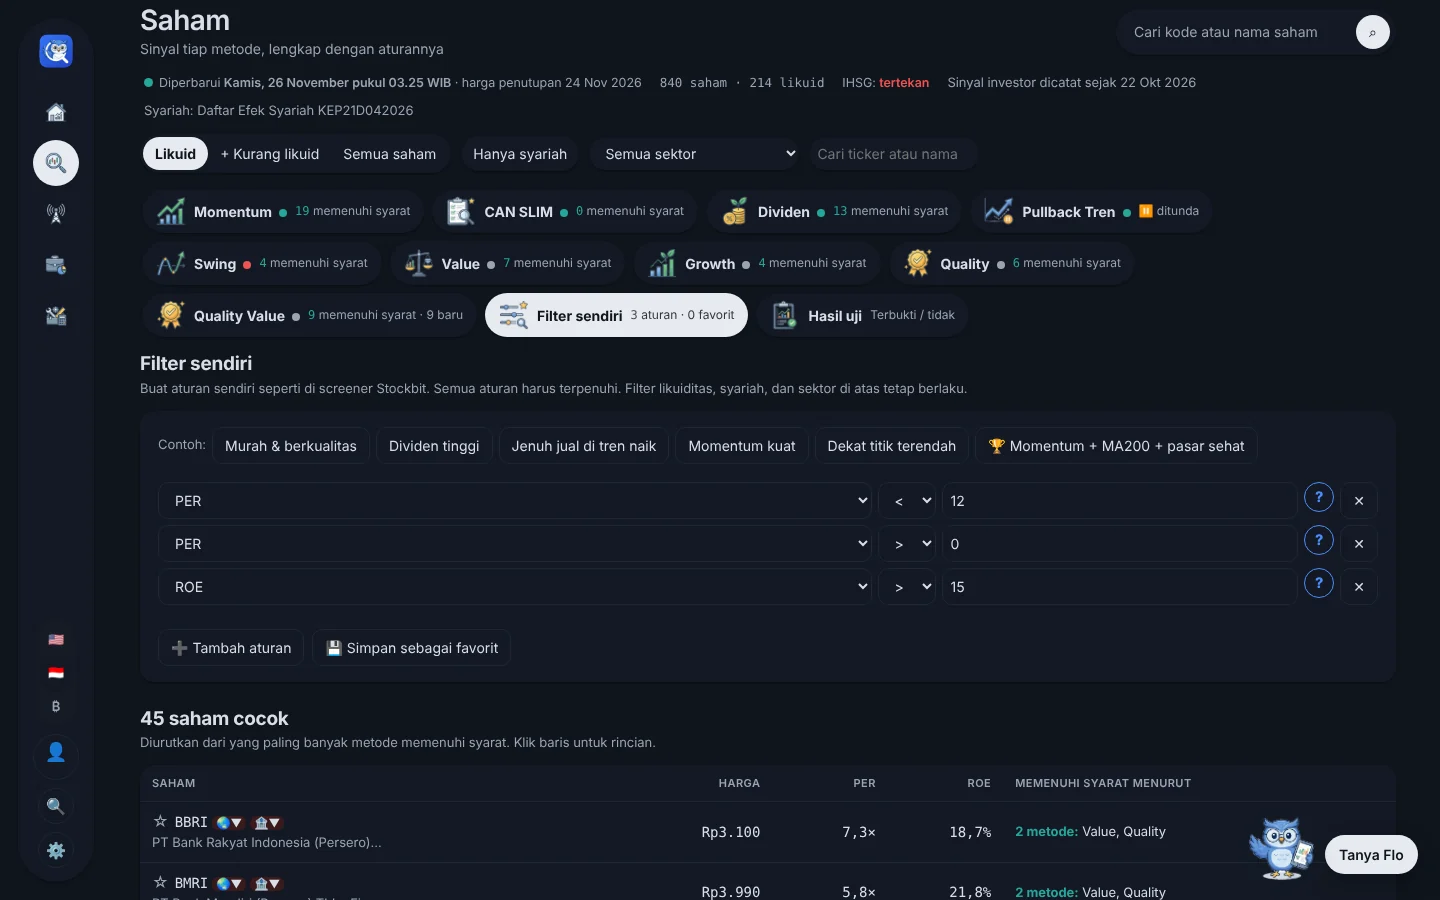
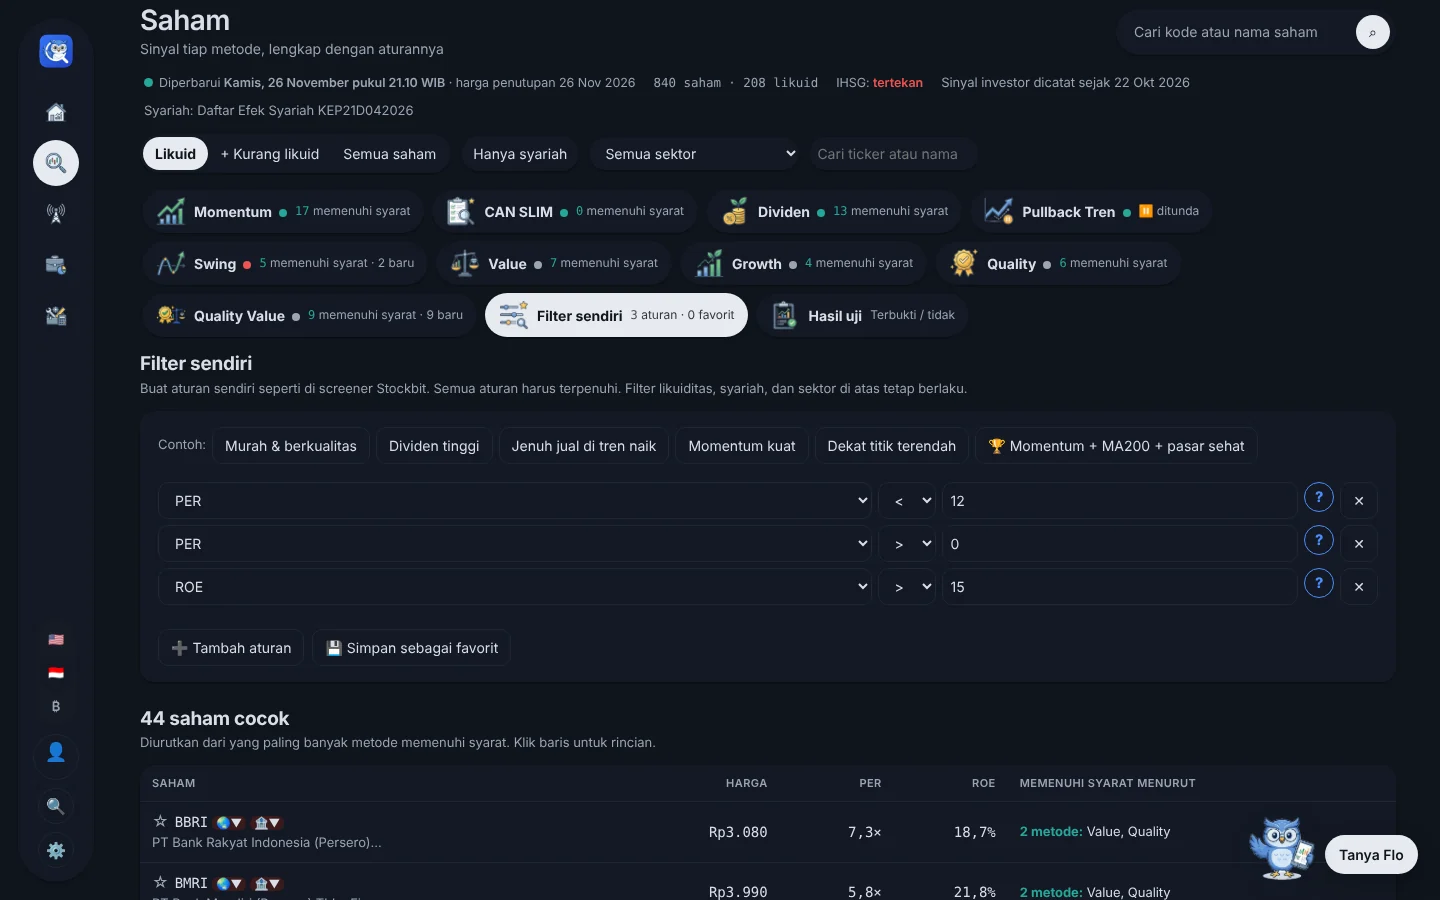
Web 8 metode dan ikon baru Quality Value
Claude-Session: https://claude.ai/code/session_0176tunthEyeYhj4CGmibasP

diff --git a/chartflow/public/index.html b/chartflow/public/index.html
@@ -4,13 +4,13 @@
 <meta charset="utf-8">
 <meta name="viewport" content="width=device-width,initial-scale=1,viewport-fit=cover">
 <title>ChartFlow · Screener Saham Metode Para Ahli</title>
-<meta name="description" content="Screener saham BEI dan Wall Street dengan 7 metode investor dan trader ternama: area beli dan jual menurut aturan tiap metode, beserta alasannya. Diperbarui otomatis setiap hari.">
+<meta name="description" content="Screener saham BEI dan Wall Street dengan 8 metode investor dan trader (termasuk Quality Value, uji coba): area beli dan jual menurut aturan tiap metode, beserta alasannya. Diperbarui otomatis setiap hari.">
 <meta name="theme-color" content="#1d4ed8">
 <meta property="og:type" content="website">
 <meta property="og:site_name" content="ChartFlow">
 <meta property="og:url" content="https://chartflow.my.id/">
 <meta property="og:title" content="ChartFlow · Screener Saham Metode Para Ahli">
-<meta property="og:description" content="Saring saham BEI dan Wall Street dengan 7 metode investor dan trader ternama: area beli dan jual menurut aturan tiap metode, beserta alasannya. Diperbarui otomatis setiap hari.">
+<meta property="og:description" content="Saring saham BEI dan Wall Street dengan 8 metode investor dan trader (termasuk Quality Value, uji coba): area beli dan jual menurut aturan tiap metode, beserta alasannya. Diperbarui otomatis setiap hari.">
 <meta property="og:image" content="https://chartflow.my.id/img/og.jpg">
 <meta property="og:image:width" content="1200"><meta property="og:image:height" content="630">
 <meta property="og:locale" content="id_ID">
@@ -223,7 +223,7 @@ input.code{font-size:22px;letter-spacing:.18em;text-align:center;text-transform:
   <div>
     <span class="pill">🟢 Harga diperbarui otomatis · <b>tiap 30 menit</b> saat BEI buka</span>
     <h1>Temukan saham terbaik dengan metode <span id="rot">para ahli</span><span class="caret" aria-hidden="true"></span></h1>
-    <p class="lead">Saham BEI dan Wall Street disaring dengan 7 metode investor dan trader ternama, plus 50 koin kripto terbesar di Indodax. Lengkap dengan grafik dan indikator ala aplikasi sekuritas, area beli menurut aturan, dan alarm harga ke Telegram Anda.</p>
+    <p class="lead">Saham BEI dan Wall Street disaring dengan 8 metode investor dan trader (termasuk Quality Value, uji coba), plus 50 koin kripto terbesar di Indodax. Lengkap dengan grafik dan indikator ala aplikasi sekuritas, area beli menurut aturan, dan alarm harga ke Telegram Anda.</p>
     <div class="cta"><button class="btn pri" data-open="login">Masuk dengan kode →</button><button class="btn sec" data-open="req">Minta kode akses</button></div>
     <p class="note">Akses terbatas dan gratis. Kode diberikan setelah permintaan Anda disetujui. Informasi edukasi, bukan ajakan membeli atau menjual.</p>
     <p class="note apkl" hidden><a href="/download/ChartFlow.apk" download id="apkLink">📱 Unduh aplikasi Android (APK)</a></p>
@@ -234,7 +234,7 @@ input.code{font-size:22px;letter-spacing:.18em;text-align:center;text-transform:
   <div class="stat"><b data-count="839">839</b><span>saham BEI disaring otomatis</span></div>
   <div class="stat"><b data-count="518">518</b><span>saham S&amp;P 500 + Nasdaq-100</span></div>
   <div class="stat"><b data-count="50">50</b><span>koin kripto terbesar di Indodax</span></div>
-  <div class="stat"><b data-count="7">7</b><span>metode saham dengan aturan aslinya</span></div>
+  <div class="stat"><b data-count="8">8</b><span>metode saham, termasuk 1 uji coba</span></div>
 </div></div>
 <div class="tape" aria-label="Ringkasan"><div class="tape-in" id="tape"></div></div></header>
 
@@ -242,7 +242,7 @@ input.code{font-size:22px;letter-spacing:.18em;text-align:center;text-transform:
   <div class="sh"><span class="k">Fitur</span><h2>Dari mencari saham sampai menjaga posisi</h2><p>Semua alat yang biasanya tersebar di beberapa aplikasi, dalam satu tempat dan dengan bahasa yang mudah dipahami.</p></div>
   <h3 class="grp">🔎 Mencari saham</h3>
   <div class="grid">
-    <div class="card"><div class="e"><img src="/img/ui/canslim.webp" alt="" loading="lazy" width="34" height="34"></div><h3>7 metode, bahasa sederhana</h3><p>Setiap saham dinilai 7 metode. Keterangannya ringkas: memenuhi syarat, belum di area beli, atau ada tanda jual, beserta alasannya.</p></div>
+    <div class="card"><div class="e"><img src="/img/ui/canslim.webp" alt="" loading="lazy" width="34" height="34"></div><h3>8 metode, bahasa sederhana</h3><p>Setiap saham dinilai 8 metode. Keterangannya ringkas: memenuhi syarat, belum di area beli, atau ada tanda jual, beserta alasannya.</p></div>
     <div class="card"><div class="e"><img src="/img/ui/uji.webp" alt="" loading="lazy" width="34" height="34"></div><h3>Hasil uji terbuka</h3><p>Satu halaman berisi semua hasil uji mundur 9–10 tahun: metode, Area beli, lampu pasar, garis tren, Jalur, pola candle, Fibonacci, dan dividen. Yang tidak terbukti ditulis apa adanya.</p></div>
     <div class="card"><div class="e"><img src="/img/ui/screen.webp" alt="" loading="lazy" width="34" height="34"></div><h3>Filter sendiri</h3><p>Susun aturan sendiri seperti screener Stockbit: PER, ROE, yield, RSI, jarak dari MA, status Momentum, pasar sehat, dan lainnya. Ada contoh siap pakai Momentum + MA200 + pasar sehat, gabungan dengan hasil uji 10 tahun terbaik di BEI. Simpan sebagai favorit.</p></div>
     <div class="card"><div class="e"><img src="/img/ui/fibtime.webp" alt="" loading="lazy" width="34" height="34"></div><h3>Waktu Fibonacci</h3><p>Daftar saham yang hampir menyentuh garis waktu Fibonacci (13–144 hari bursa dari puncak atau lembah terakhir) sementara harganya sedang turun, jadi calon lembah. Bisa digabung dengan metode Value, Dividen, Quality, atau Swing, lengkap dengan hitung mundur (Hari ini, H-1, H-2, H-3), bagian Baru lewat yang menandai apakah harga sudah memantul atau masih turun, dan riwayat ketepatannya per saham. Hasil ujinya ditampilkan: hanya sebagian kecil tanggal benar menjadi titik balik, jadi daftar ini pengingat untuk mengecek grafik, bukan sinyal.</p></div>
@@ -311,7 +311,7 @@ input.code{font-size:22px;letter-spacing:.18em;text-align:center;text-transform:
 </div></section>
 
 <section id="metode" style="padding-top:20px"><div class="wrap">
-  <div class="sh"><span class="k">Metode</span><h2>7 metode, aturan aslinya</h2><p>Bukan indikator buatan sendiri. Setiap metode mengikuti aturan yang ditulis tokohnya, dan diuji ulang dengan data masa lalu. Tambahan khusus saham BEI: <b>Quality Value</b>, uji coba yang terinspirasi gaya Buffett. Batas angkanya pilihan ChartFlow, bukan rumus resmi, dan belum diuji dengan data masa lalu.</p></div>
+  <div class="sh"><span class="k">Metode</span><h2>8 metode, aturan terbuka</h2><p>Tujuh metode mengacu pada aturan tokoh atau pendekatan yang dikenal; hasil ujinya, termasuk yang belum bisa diuji, ditampilkan di aplikasi. Metode kedelapan, <b>Quality Value</b>, adalah uji coba yang terinspirasi gaya Buffett: batas angkanya pilihan ChartFlow, bukan rumus resmi, dan belum diuji dengan data masa lalu.</p></div>
   <div class="meth">
     <div class="m"><i class="inv">Investor</i><b>Value</b><span>Benjamin Graham</span></div>
     <div class="m"><i class="inv">Investor</i><b>Growth</b><span>Peter Lynch</span></div>
@@ -446,7 +446,7 @@ const RM=matchMedia("(prefers-reduced-motion: reduce)").matches;
 })();
 // pita berjalan: kondisi pasar terbaru + metode
 (function(){
-  const base=["7 metode: Graham · Lynch · Terry Smith · Dividen · CAN SLIM · Momentum · Swing","📍 Sinyal + label hasil uji","💼 Portofolio + peringatan jual","🔥 Ramai hari ini","₿ Kripto + Lampu BTC","🌏 Arus asing (KSEI)","👤 Insider membeli (AS)","📅 Kalender dividen","📲 Telegram otomatis"];
+  const base=["8 metode: Graham · Lynch · Terry Smith · Quality Value (uji coba) · Dividen · CAN SLIM · Momentum · Swing","📍 Sinyal + label hasil uji","💼 Portofolio + peringatan jual","🔥 Ramai hari ini","₿ Kripto + Lampu BTC","🌏 Arus asing (KSEI)","👤 Insider membeli (AS)","📅 Kalender dividen","📲 Telegram otomatis"];
   const tag={naik:'<b class="up">sehat ▲</b>',campuran:'<b class="mu">campuran</b>',tertekan:'<b class="dn">tertekan ▼</b>'};
   function render(extra){ const items=extra.concat(base.map(t=>`<span>${t}</span>`)); const html=items.map(x=>x+'<span class="mu">•</span>').join(""); $("tape").innerHTML=html+html; }
   render([]);

diff --git a/index.html b/index.html
@@ -5,7 +5,7 @@
 <meta name="viewport" content="width=device-width,initial-scale=1,maximum-scale=1,user-scalable=no,viewport-fit=cover">
 <script>document.addEventListener("gesturestart",e=>e.preventDefault(),{passive:false});</script>
 <title>Screener Saham Indonesia</title>
-<meta name="description" content="Saring semua saham Bursa Efek Indonesia dengan 7 metode investor dan trader plus Quality Value (uji coba), lengkap dengan harga beli, jual, dan alasannya.">
+<meta name="description" content="Saring semua saham Bursa Efek Indonesia dengan 8 metode investor dan trader (termasuk Quality Value, uji coba), lengkap dengan harga beli, jual, dan alasannya.">
 <link rel="manifest" href="/screener-saham/manifest.webmanifest">
 <meta name="theme-color" content="#1d4ed8">
 <link rel="icon" type="image/svg+xml" href="icons/icon.svg">
@@ -2232,7 +2232,7 @@ function homeTop(){
 function renderPbt(box){
   if(IS_ID&&!PBT_P) loadPbt().then(()=>{ if(tab==="pbt") renderResults(); });
   if(!IS_ID){ box.innerHTML=`<div class="tablebox"><div class="empty">Pullback Tren hanya untuk saham BEI.</div></div>`; return; }
-  box.innerHTML=proofBar("pbt")+`<p class="note" style="margin:0 2px 8px">Tambahan khusus BEI, di luar 7 metode utama: racikan ChartFlow dari ide Larry Connors (beli saat saham yang sedang naik turun tajam beberapa hari, jual saat memantul). Aturannya disetel dengan data BEI, jadi hasil nyata bisa lebih rendah dari hasil uji.</p>`+pbtSection();
+  box.innerHTML=proofBar("pbt")+`<p class="note" style="margin:0 2px 8px">Tambahan khusus BEI, di luar 8 metode utama: racikan ChartFlow dari ide Larry Connors (beli saat saham yang sedang naik turun tajam beberapa hari, jual saat memantul). Aturannya disetel dengan data BEI, jadi hasil nyata bisa lebih rendah dari hasil uji.</p>`+pbtSection();
 }
 function renderWatch(box){
   if(IS_ID&&!PBT_P) loadPbt().then(()=>{ if(tab==="watch") renderResults(); });
@@ -2898,7 +2898,7 @@ function addToPorto(st){ store.set(WP+"porto.pre",JSON.stringify({code:st.code,p
 
 
 // ---------- navigasi v2 ----------
-const CF_ICO=(function(){ var l=document.querySelector("img.logo"), s=l?l.getAttribute("src"):"icons/icon-192.png"; return s.replace(/icon-192\.png.*$/,"")+"ui/"; })(); const UI=(n,c)=>`<img class="${c||"uic"}" src="${CF_ICO}${n}.webp" alt="" decoding="async">`; const MICO={momentum:"momentum",canslim:"canslim",dividend:"dividend",pbt:"pbt",swing:"swing",value:"value",growth:"growth",quality:"quality",qvalue:"quality",screen:"screen",uji:"uji",cycles:"cycles",calc:"calc",hot:"hot",fibtime:"fibtime",divcal:"dividend",lamp:"lamp",mom90:"momentum"}; const GROUPS=[{id:"home",ic:UI("nav-home"),name:"Beranda",tabs:["summary"]},
+const CF_ICO=(function(){ var l=document.querySelector("img.logo"), s=l?l.getAttribute("src"):"icons/icon-192.png"; return s.replace(/icon-192\.png.*$/,"")+"ui/"; })(); const UI=(n,c)=>`<img class="${c||"uic"}" src="${CF_ICO}${n}.webp" alt="" decoding="async">`; const MICO={momentum:"momentum",canslim:"canslim",dividend:"dividend",pbt:"pbt",swing:"swing",value:"value",growth:"growth",quality:"quality",qvalue:"qvalue",screen:"screen",uji:"uji",cycles:"cycles",calc:"calc",hot:"hot",fibtime:"fibtime",divcal:"dividend",lamp:"lamp",mom90:"momentum"}; const GROUPS=[{id:"home",ic:UI("nav-home"),name:"Beranda",tabs:["summary"]},
   {id:"saham",ic:UI("nav-saham"),name:"Saham",tabs:["momentum","dividend","canslim","swing","value","growth","quality","qvalue"].filter(id=>MID[id]).concat(M.map(m=>m.id).filter(id=>!["momentum","dividend","canslim","swing","value","growth","quality","qvalue"].includes(id)),IS_ID?["pbt"]:[],["screen","uji"])},
   {id:"watch",ic:UI("nav-sinyal"),name:"Sinyal",tabs:["watch"]},{id:"porto",ic:UI("nav-porto"),name:"Portofolio",tabs:["porto"]},{id:"alat",ic:UI("nav-alat"),name:"Alat",tabs:["cycles","fibtime","calc","hot","divcal"]}];
 const groupOf=t=>GROUPS.find(g=>g.tabs.includes(t))||GROUPS[0];

diff --git a/linkbio/public/index.html b/linkbio/public/index.html
@@ -113,7 +113,7 @@ a:focus-visible{outline:2px solid var(--bl);outline-offset:3px}
           <img src="img/foto-kartu.webp?v=2" alt="Foto Sultan Amra" width="76" height="76">
           <div><h1>Sultan Amra, S.IP.</h1><p>Pembuat ChartFlow</p></div>
         </div>
-        <div class="stats"><span><b>3</b> pasar</span><span><b>7</b> metode</span><span>diuji <b>10 th</b></span></div>
+        <div class="stats"><span><b>3</b> pasar</span><span><b>8</b> metode</span><span>diuji <b>10 th</b></span></div>
       </div>
     </div>
   </div>

diff --git a/scripts/strategies.py b/scripts/strategies.py
@@ -1,5 +1,5 @@
 """
-Tujuh metode versi asli untuk saham BEI: kriteria, aturan masuk, aturan keluar, dan alasannya.
+Delapan metode (termasuk Quality Value, uji coba) untuk saham BEI: kriteria, aturan masuk, aturan keluar, dan alasannya.
 
 Penyesuaian pasar Indonesia: arah pasar dari IHSG, biaya transaksi (beli 0,15%, jual 0,25%) masuk
 uji mundur, harga patokan dibulatkan ke fraksi harga BEI, kriteria khusus bank, dan riwayat laba

diff --git a/scripts/fetch_data.py b/scripts/fetch_data.py
@@ -656,7 +656,7 @@ def main():
         except Exception:
             pass
     state = load_state()
-    log("Menghitung 7 metode ...")
+    log("Menghitung 8 metode ...")
     res = strategies.run(rows, close, volume, day, state, eligible)
     import dataguard
     dq = dataguard.apply(rows, close)

diff --git a/README.md b/README.md
@@ -1,6 +1,6 @@
 # Screener Saham Indonesia
 
-Semua saham Bursa Efek Indonesia yang tersedia di Yahoo Finance (±840 saham), disaring dengan 7 metode sesuai aturan aslinya (ditambah Quality Value, uji coba terinspirasi gaya Buffett): Value (Graham), Growth (Lynch), Quality (Terry Smith), Dividen, CAN SLIM (O'Neil/Minervini), Momentum (Jegadeesh & Titman), dan Swing (Connors RSI-2). Setiap sinyal punya harga patokan (dibulatkan ke fraksi BEI) dan alasannya.
+Semua saham Bursa Efek Indonesia yang tersedia di Yahoo Finance (±840 saham), disaring dengan 8 metode (7 sesuai aturan aslinya, ditambah Quality Value, uji coba terinspirasi gaya Buffett): Value (Graham), Growth (Lynch), Quality (Terry Smith), Dividen, CAN SLIM (O'Neil/Minervini), Momentum (Jegadeesh & Titman), dan Swing (Connors RSI-2). Setiap sinyal punya harga patokan (dibulatkan ke fraksi BEI) dan alasannya.
 
 Website: `https://sultanamra3-arch.github.io/screener-saham-indonesia/`
 
